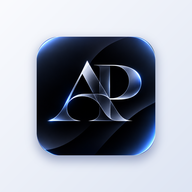
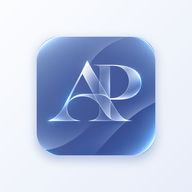
Иконка светлее: голубой стеклянный значок на светлом фоне
Claude-Session: https://claude.ai/code/session_01KmsbELnQ3uKhysmyhvZ4md

diff --git a/v5/sw.js b/v5/sw.js
@@ -1,7 +1,7 @@
 // АР · Тетрадь v5 — service worker.
 // Сеть в приоритете, кэш только на случай, когда интернета нет. Принимает фоновые уведомления (Web Push).
 // Область действия — только папка v5, старую CRM не затрагивает.
-const CACHE = 'ar-v5-9';
+const CACHE = 'ar-v5-10';
 
 self.addEventListener('install', () => { self.skipWaiting(); });
 
